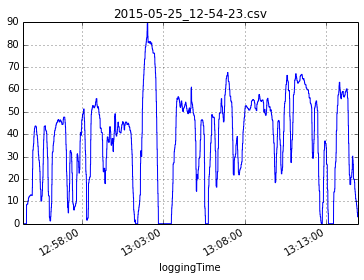
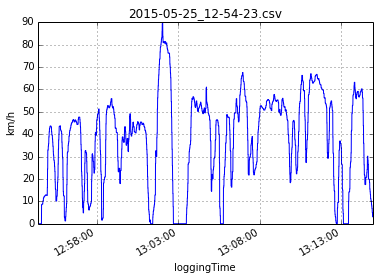
worked on improving model section. Fixed a figure

diff --git a/PERCOM16/models.tex b/PERCOM16/models.tex
@@ -7,7 +7,7 @@ The data received from smartphones comes from a variety of sensors. For this exp
 
 \subsection{Method from National Emission model}
 
-In the COPERT IV emission modelling program, emission from warm combustion engines is modelled from the speed of the vehicle. As an example the emission $CO_2$ is modelled by modelling the fuel consumption of the vehicle, since the $CO_2$ emission is directly linked to the amount of fuel burned in the engine. Equation \ref{emission} is an example of how COPERT IV models the fuel consumption of a petrol driven passenger car as a function of the speed of the vehicle \cite{Ntziachristos2012}. There is a similar equation covering the fuel consumption of diesel cars. The constants $a-e$ are found by testing and differs by car type, engine size, year of manufacturing, and regulation. The COPERT IV program uses mean values for all tested vehicles within a particular class of vehicles.
+In the COPERT IV emission modelling program, emission from warm combustion engines is modelled from the speed of the vehicle. As an example the emission CO$_2$ is modelled by modelling the fuel consumption of the vehicle, since the C$O_2$ emission is directly linked to the amount of fuel burned in the engine. Equation \ref{emission} is an example of how COPERT IV models the fuel consumption of a petrol driven passenger car as a function of the speed of the vehicle \cite{Ntziachristos2012}. There is a similar equation covering the fuel consumption of diesel cars. The constants $a-e$ are found by testing and differs by car type, engine size, year of manufacturing, and regulation. The COPERT IV program uses mean values for all tested vehicles within a particular class of vehicles.
 
 \begin{equation}
 	FC_{warm} = \frac{a + c*v + e*v^2}{1 + b*v + d*v^2}
@@ -39,23 +39,24 @@ To model the emission from accelerating vehicles, we first need to establish the
 
 In order to model the effect of vehicle acceleration, we divide the trip into six driving patterns, idle, forward acceleration, deceleration, cruise at constant speed, left turn and right turn. Reversing is not considered in this project, partly because we have no data and partly because it is an infrequent driving pattern. 
 
-Gravity 
+To use the accelerometer to discern between the different driving modes, there is a number of issues that we need to consider. The gravity creates a constant acceleration vector that we need to filter from the data. There are a number of methods for removing the gravity signal from the accelerometer data \cite{bla}. In the experiment we have relied on the the method used by SensorLog.
 
-Position of smartphone
+The position and orientation of the smartphone in the vehicle is another matter for consideration. The smartphone orientation must be fixed, and preferable with the X-axis pointing forward, and the screen facing upwards.
 
-To detect acceleration
+The different driving modes have different acceleration signatures. The forward acceleration, would have a positive acceleration in the direction of the X-axis, and only a small acceleration component i the Y-axis and Z-axis. Likewise the braking driving mode would have a significant component in the negative X-axis and only small components in the Y and Z directions. The emission model for acceleration and braking would not be the same though, as energy is spent during acceleration, but energy is not retrieved from braking in most vehicles. For the forward acceleration mode the emission model we use \todo{formulate model, give references }
 
+Turning is characterised by higher acceleration in the Y direction, and left and right turn can be discerned from the direction. The emission model for turning is not being covered in this paper.
 
-Turning
+\ref
+Cruise is characterised by no significant acceleration in either X or Y direction. For cruising the emission model from equation \ref{emission}, can be used, since the speed is constant.
 
-Cruise is characterised by
- For cruising the emission model from equation \ref{emission}, can be used, since the speed is constant.
-
-Idle
+As in cruise mode, idle mode is characterised by a lack of acceleration in X and Y, but in idle the speed is zero. The emission model for idle mode is an emission pr time unit instead of emission pr distance unit. The model is created from equation \ref{emission}, by taken the fuel consumption at lowest valid speed for the equation, which gives the fuel consumption in $g/km$ and multiplying with the lowest valid speed to get the fuel consumption i $g/h$.
 
 The emission model for the braking and idle driving mode, can be the same, since regenerative braking is not used in many passenger cars with only a combustion engine.
 
-K-means
+
+The clustering algorithm K-means is used for classifying the accelerometer data into the six driving modes. It is an unsupervised clustering algorithm, that given a number of cluster centres, minimises the mean squared error of the distance between the cluster centres and the the cluster members, for all data in the data set. 
+
 
 
 

diff --git a/PERCOM16/intro.tex b/PERCOM16/intro.tex
@@ -7,14 +7,11 @@ In modern societies, carbon emissions from transport are a large and growing par
 
 As Carbon emissions are closely related to the fuel consumption, experiments were designed and carried out which gathered from an onboard smartphone  driving-related data and data on the amount of fuel consumed.
 
-\todo{can be ommited?:}
-To accurately model Carbon emissions from smartphone data, an experiment was performed in order to establish a ground truth\todo{ground truth: explain what and why?}. 
-
 We chose to use some old car \todo{exact details? btw, use different cars for a broader range of experiments?} for the experiments and thus 
 \todo{this sounds like a poor choice and excuse? Can we say that we aim for getting data also from all includung old cars? Btw, what about the instrumenting software that you had trouble with but which our developers now have instrumented on our department car? Would that make that your statement above obsolete?} had to create an accurate fuel consumption measuring method, which did not involve instrumenting the vehicles. 
 
 
-The remained of the paper is organized as follows:
-In Section \ref{sec:relwork} we review related work, including methods for measuring the fuel consumption and for creating related models of fuel consumption from sensor data  Additinoally, we briefly review methods to determine different driving styles and driving modes.
+The remainder of the paper is organised as follows:
+In Section \ref{sec:relwork} we review related work, including methods for measuring the fuel consumption and for creating related models of fuel consumption from sensor data  Additionally, we briefly review methods to determine different driving styles and driving modes.
 In Section \ref{sec:modeling} the models used to convert the experimental data into emission data are presented. 
 The results of the experiments which partly relate to fuel consumption measurement and modeling and partly to reliable detection of driving modes, are presented in Section \ref{sec:results} and the paper is concluded in Section \label{sec:conclusions}.

diff --git a/PERCOM16/PERCOM16.tex b/PERCOM16/PERCOM16.tex
@@ -12,19 +12,20 @@
 \usepackage{color}
 \definecolor{Orange}{rgb}{1,0.5,0}
 \definecolor{HBGreen}{rgb}{0,0.8,0}
+\newif\ifdraft
+              % \drafttrue
+               \draftfalse
+\ifdraft
 \newcommand{\todo}[1]{\textsf{\textbf{\textcolor{Orange}{[Todo: #1]}}}}
 % Macro for writing in the margin comments on what is left to be done.
-\newif\ifdraft
-               \drafttrue
-               %\draftfalse
-\ifdraft
 \newcounter{ournotecounter}
 \newcommand{\ournote}[1]{%
-\textsf{\textbf{\textcolor{Orang}{[#1]}}}}
+\textsf{\textbf{\textcolor{Orange}{[#1]}}}}
 \newcommand{\alnote}[1]{%
 \textsf{\textbf{\textcolor{HBGreen}{[#1]}}}}
 \typeout{Compiling in draft mode.}
 \else
+\newcommand{\todo}[1]{}
 \newcommand{\ournote}[1]{}
 \newcommand{\bigournote}[1]{}
 \typeout{Compiling in final mode.}
@@ -63,6 +64,7 @@ Carbon dioxide emissions from transport constitutes a large, and growing, part o
  As part of this estimation model,  aA method for discerning between different driving modes is presented, using the K-means clustering method. This method will increase the accuracy of the emission model by estimation of increased fuel consumption while accelerating and decreased fuel consumption while braking, as well as estimate idle time.
 
 \end{abstract}
+
 \pagenumbering{arabic}	
 \todo{fix figures, legends labels, axis}
 

diff --git a/PERCOM16/results.tex b/PERCOM16/results.tex
@@ -10,7 +10,7 @@ usable data from 19 test runs. In the processing of data it became apparent that
 \begin{tabular}{| l | r |}
 \hline 
 number of trips & 19 \\[0.1cm] \hline
-number of datapoints & $12*10^6$\\[0.1cm] \hline
+number of datapoints & $1.5 10^6$\\[0.1cm] \hline
 height difference & 6 m\\[0.1cm]
 \hline 
 
